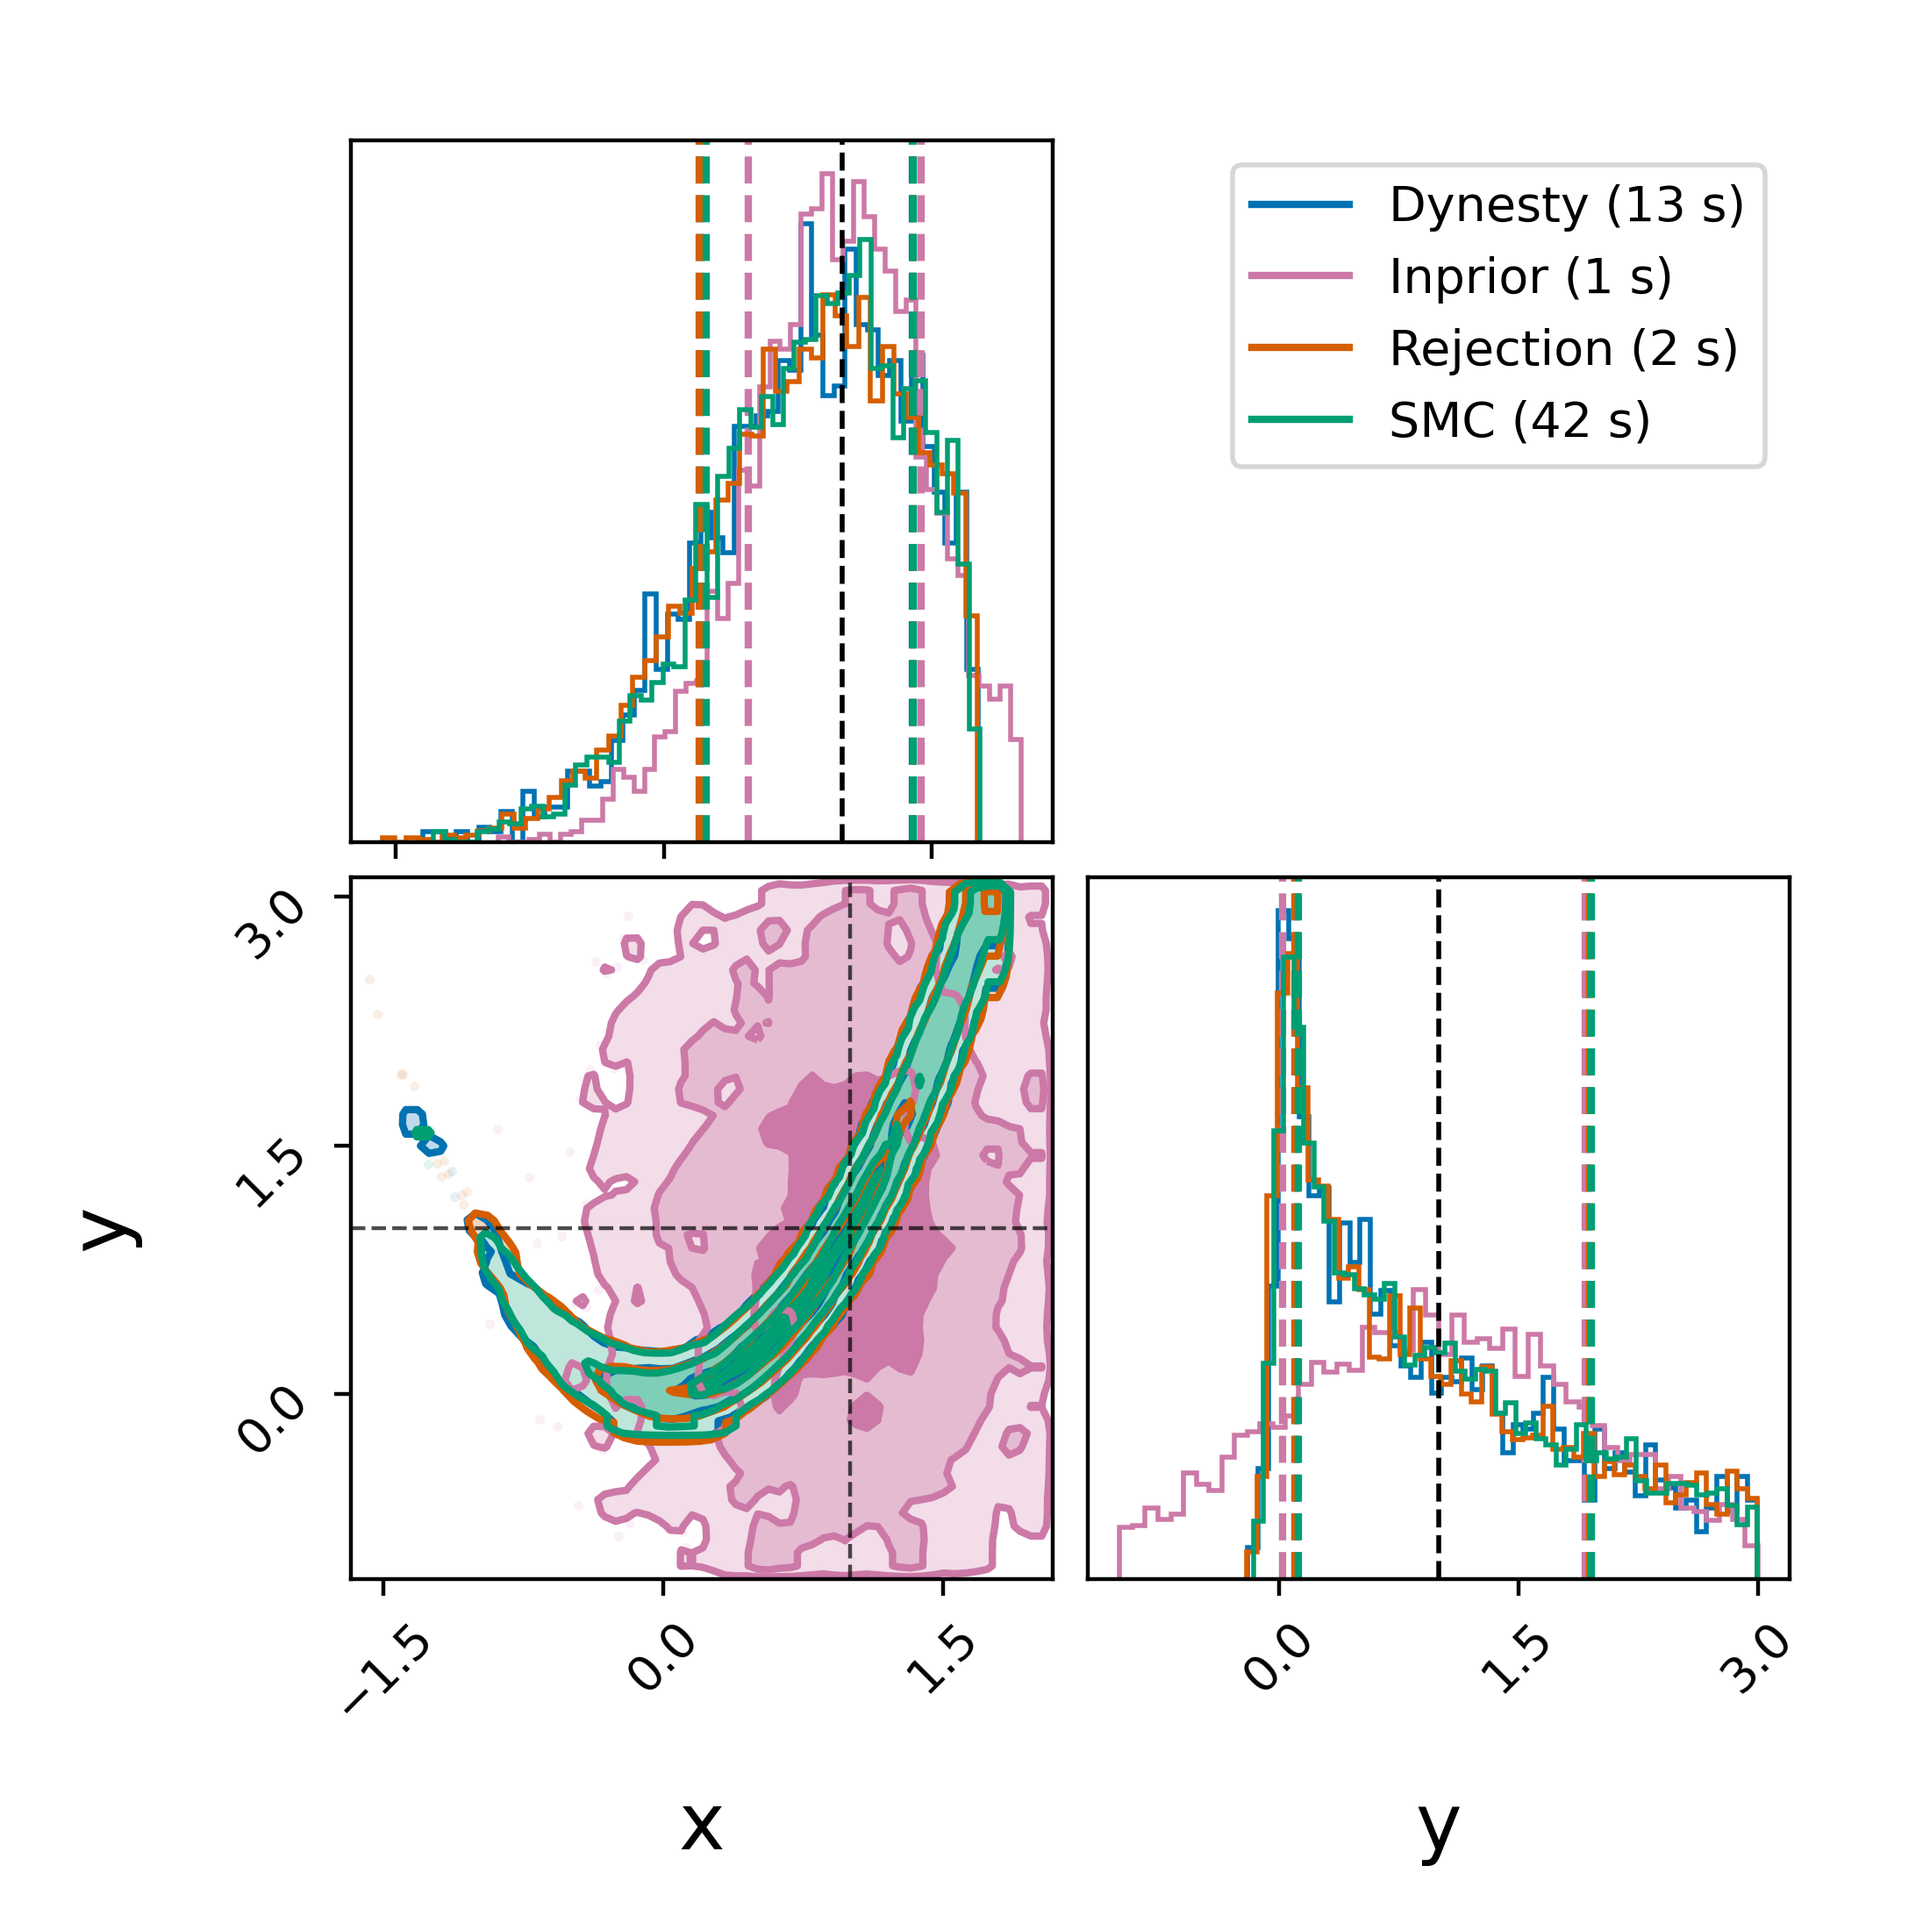
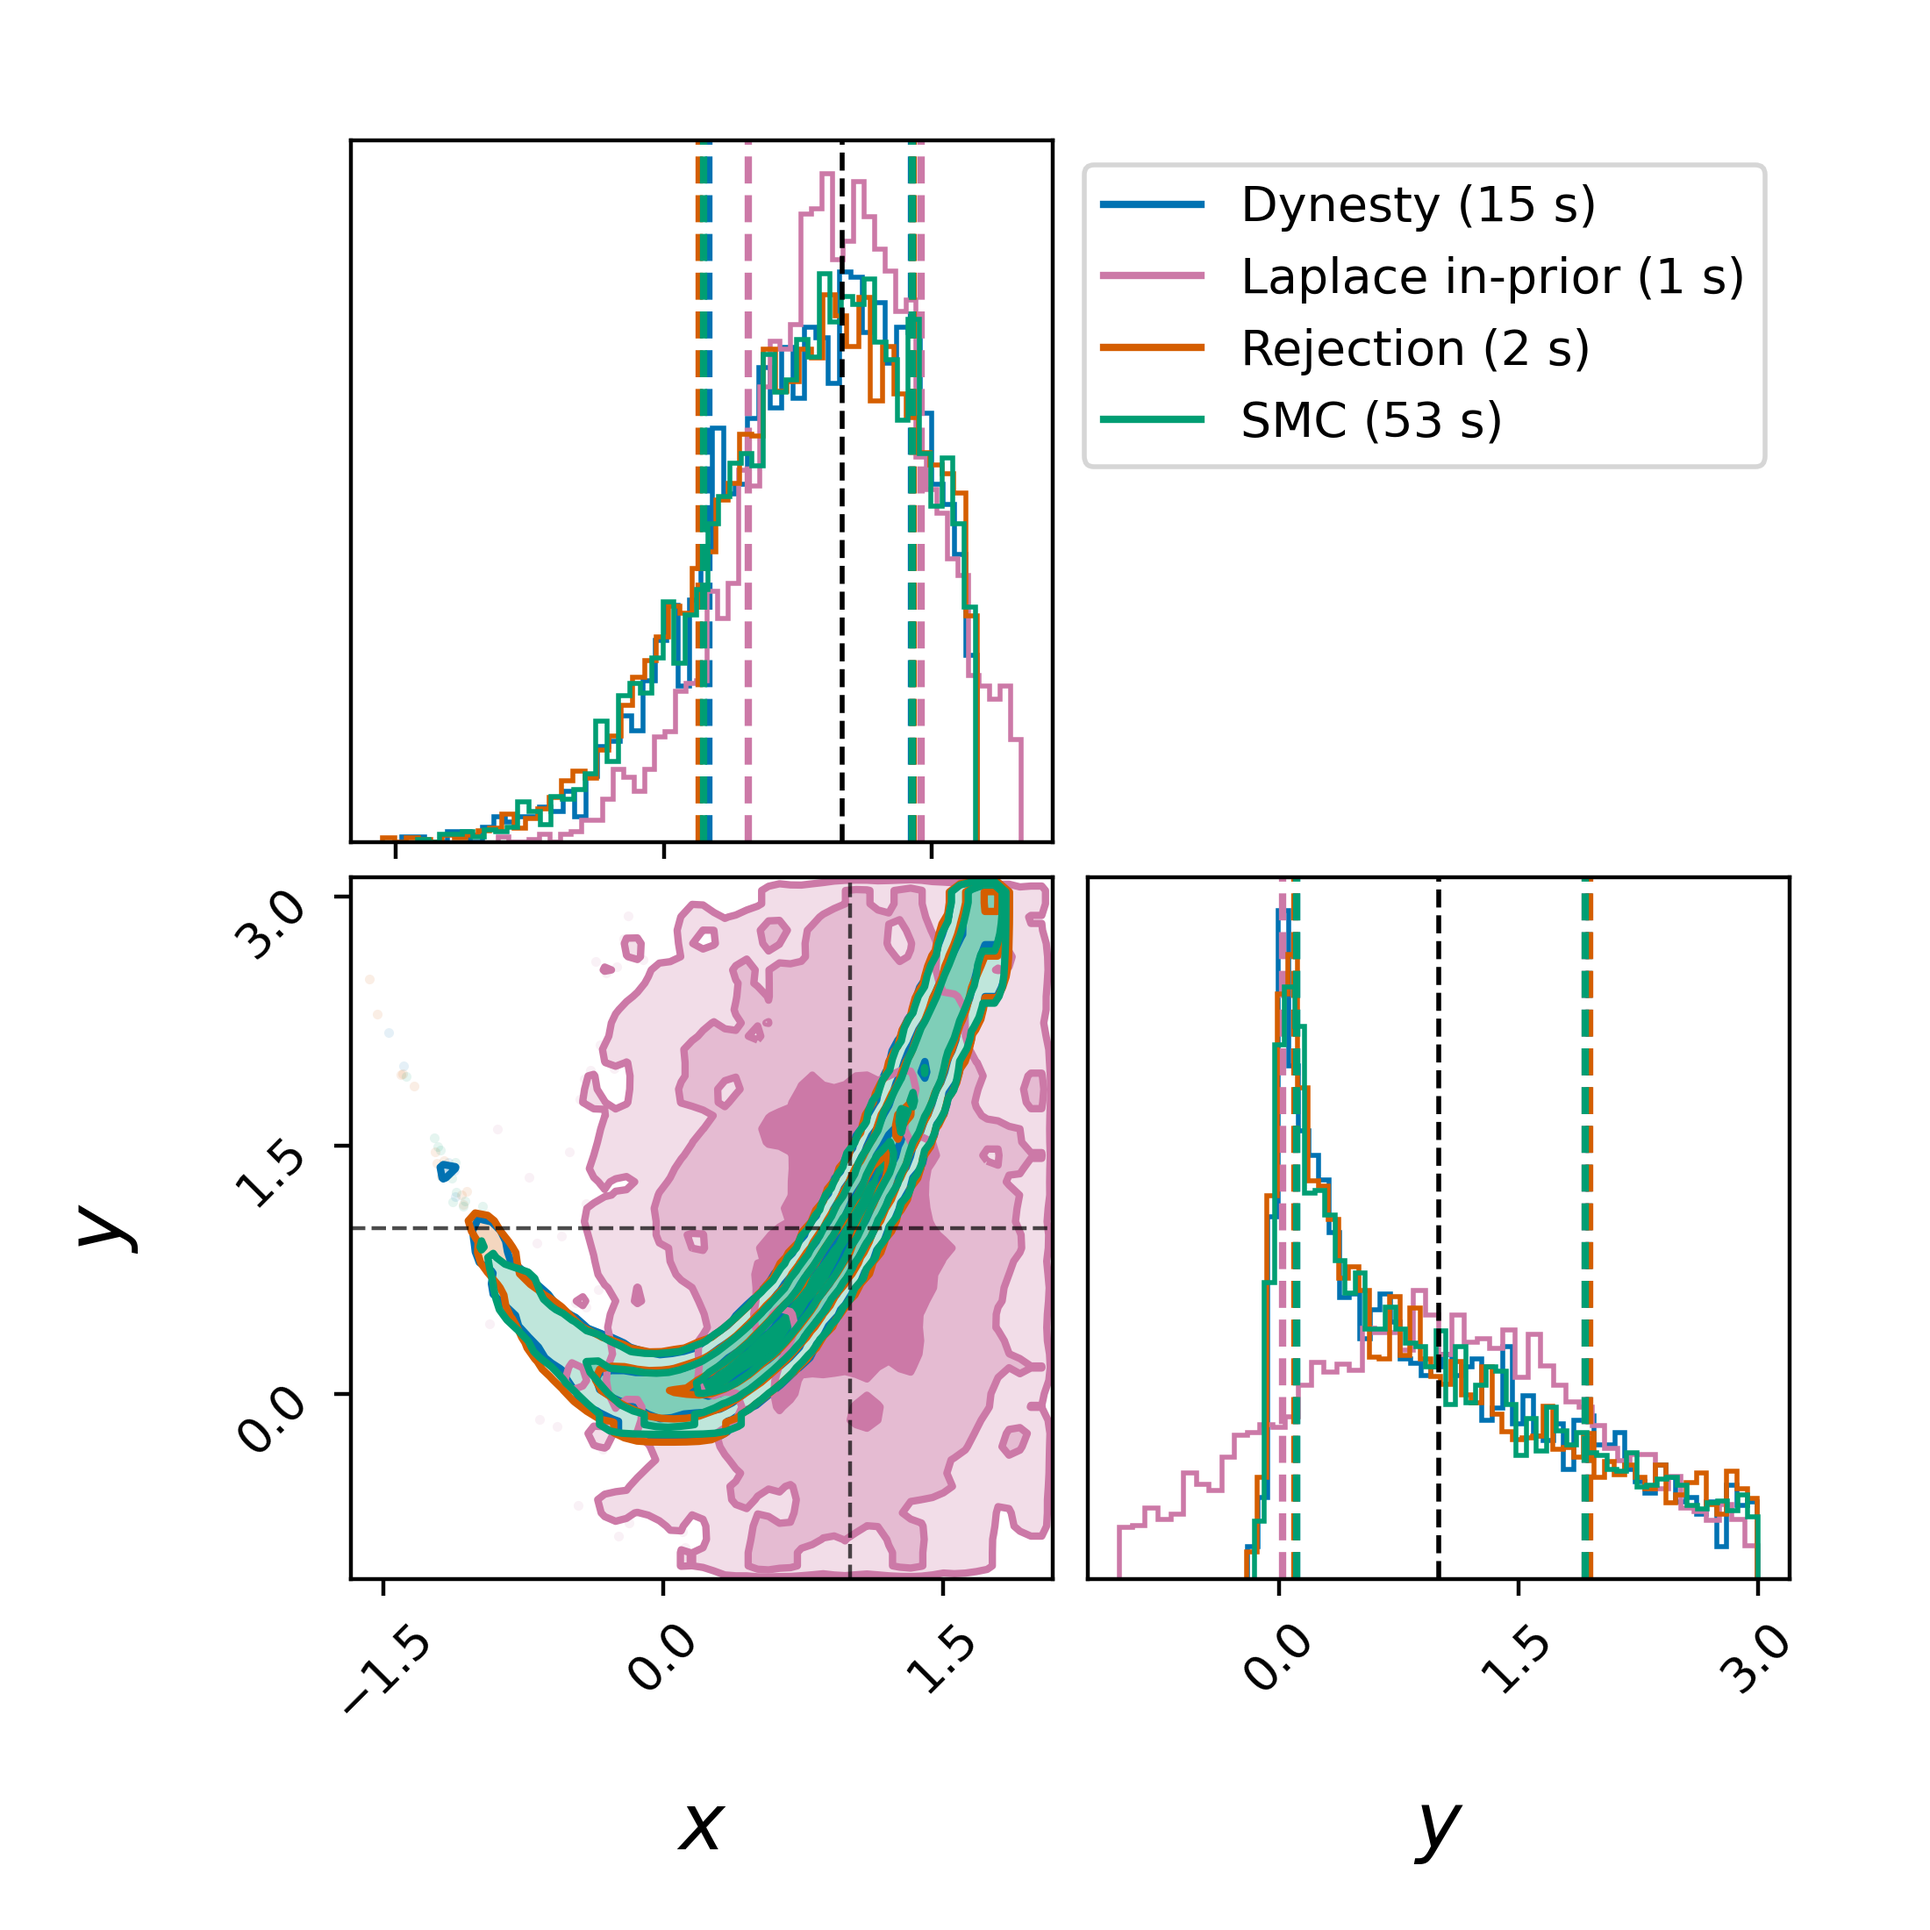
Update the examples

diff --git a/src/bilby_laplace/comparison.py b/src/bilby_laplace/comparison.py
@@ -59,13 +59,23 @@ def colours_for_results(results):
 def _prettify_method(method):
     """Turn a method token like ``"rejection_user"`` into ``"Rejection user"``.
 
-    ``"smc"`` is upper-cased as an acronym; other tokens are capitalised.
+    ``"smc"`` is upper-cased as an acronym; ``"inprior"`` becomes
+    ``"Laplace in-prior"`` (it is the Laplace approximation drawn within the
+    prior support); other tokens are capitalised.
     """
     text = method.replace("_", " ").strip()
     if not text:
         return method
-    words = [("SMC" if w.lower() == "smc" else w.capitalize()) for w in text.split()]
-    return " ".join(words)
+
+    def _word(w):
+        lw = w.lower()
+        if lw == "smc":
+            return "SMC"
+        if lw == "inprior":
+            return "Laplace in-prior"
+        return w.capitalize()
+
+    return " ".join(_word(w) for w in text.split())
 
 
 def _format_duration(secs):
@@ -75,6 +85,21 @@ def _format_duration(secs):
     if secs >= 60:
         return f" ({secs / 60:.1f} min)"
     return f" ({secs:.0f} s)"
+
+
+def _format_efficiency(eff):
+    """Format an efficiency percentage without collapsing small values to 0.
+
+    A fixed single decimal (``{:.1f}%``) rounds anything below 0.05% to
+    ``0.0%``, making a genuinely tiny-but-nonzero efficiency indistinguishable
+    from an exact zero.  Below 0.1% we switch to two significant figures (e.g.
+    ``0.0034%``) so the value stays visible; a true zero still prints ``0.0%``.
+    """
+    if eff <= 0:
+        return "0.0%"
+    if eff < 0.1:
+        return f"{eff:.2g}%"
+    return f"{eff:.1f}%"
 
 
 def sampler_labels(results):
@@ -199,10 +224,20 @@ def compare(pattern, filename, injection_parameters=None, sampler_only_labels=Fa
         secs = r.sampling_time.total_seconds()
         run_stats = r.meta_data.get("run_statistics", {})
         n_like = run_stats.get("nlikelihood", np.nan)
+        # The Laplace sampler records its own "efficiency" (final samples per
+        # likelihood evaluation).  Other samplers (e.g. dynesty) don't, but
+        # bilby stores nlikelihood and neffsamples, so we reconstruct the same
+        # quantity: effective independent samples per likelihood evaluation.
+        # For the Laplace family the draws are iid, so neff ~= n and the two
+        # definitions coincide.
         eff = run_stats.get("efficiency", np.nan)
+        if not np.isfinite(eff):
+            neff = run_stats.get("neffsamples", np.nan)
+            if np.isfinite(neff) and np.isfinite(n_like) and n_like:
+                eff = 100.0 * neff / n_like
         name = os.path.basename(r.label)
         n_like_str = f"{int(n_like):>8}" if np.isfinite(n_like) else f"{'—':>8}"
-        eff_str = f"{eff:>7.1f}%" if np.isfinite(eff) else f"{'—':>8}"
+        eff_str = f"{_format_efficiency(eff):>8}" if np.isfinite(eff) else f"{'—':>8}"
         print(f"{name:<20} {log_z:>10.2f} {log_z_err:>8.2f} {n_like_str} {eff_str} {secs:>9.1f}s")
     print("=" * W + "\n")
 

diff --git a/examples/gaussian/run.py b/examples/gaussian/run.py
@@ -61,8 +61,8 @@ def setup():
 
     priors = bilby.core.prior.PriorDict(
         dict(
-            x=bilby.core.prior.Uniform(-5, 5, "x"),
-            y=bilby.core.prior.Uniform(-5, 5, "y"),
+            x=bilby.core.prior.Uniform(-5, 5, "$x$"),
+            y=bilby.core.prior.Uniform(-5, 5, "$y$"),
         )
     )
 
@@ -128,7 +128,7 @@ def run_smc(_common_laplace):
         smc_kwargs=dict(
             sampler="minipcn_smc",
             n_initial_samples=10000,
-            n_final_samples=5000,
+            n_samples=5000,
             target_efficiency=[0.5, 0.8],
             adaptive=True,
             sampler_kwargs=dict(

diff --git a/examples/rosenbrock/run.py b/examples/rosenbrock/run.py
@@ -46,8 +46,8 @@ def setup():
 
     priors = bilby.core.prior.PriorDict(
         dict(
-            x=bilby.core.prior.Uniform(-2, 2, "x"),
-            y=bilby.core.prior.Uniform(-1, 3, "y"),
+            x=bilby.core.prior.Uniform(-2, 2, "$x$"),
+            y=bilby.core.prior.Uniform(-1, 3, "$y$"),
         )
     )
 
@@ -100,7 +100,7 @@ def run_smc(_common_laplace):
         smc_kwargs=dict(
             sampler="minipcn_smc",
             n_initial_samples=10000,
-            n_final_samples=5000,
+            n_samples=5000,
             target_efficiency=[0.5, 0.8],
             adaptive=True,
             sampler_kwargs=dict(

diff --git a/examples/BNS_3G/run.py b/examples/BNS_3G/run.py
@@ -294,7 +294,7 @@ def run_smc(_common_laplace, run_prefix):
         smc_kwargs=dict(
             sampler="minipcn_smc",
             n_initial_samples=1000,
-            n_final_samples=5000,
+            n_samples=5000,
             adaptive=True,
             sampler_kwargs=dict(
                 n_steps=10,

diff --git a/examples/BBH_HLV/run.py b/examples/BBH_HLV/run.py
@@ -202,7 +202,7 @@ def run_smc(_common_laplace):
         smc_kwargs=dict(
             sampler="minipcn_smc",
             n_initial_samples=1000,
-            n_final_samples=5000,
+            n_samples=5000,
             adaptive=True,
             sampler_kwargs=dict(
                 n_steps=5,

diff --git a/docs/guide/resampling.md b/docs/guide/resampling.md
@@ -40,7 +40,7 @@ result = bilby.run_sampler(
     smc_kwargs=dict(
         sampler="importance",      # aspire posterior sampler
         n_initial_samples=1000,    # drawn from the Laplace proposal, passed to fit()
-        n_final_samples=5000,      # output samples requested
+        n_samples=5000,            # SMC particle count (drives cost; = size of final posterior)
     ),
 )
 ```
